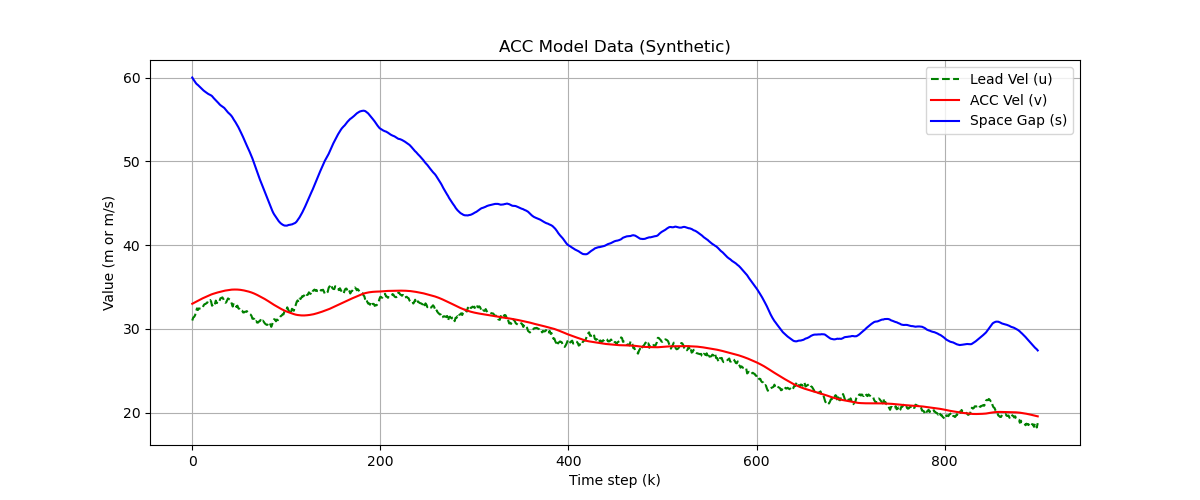
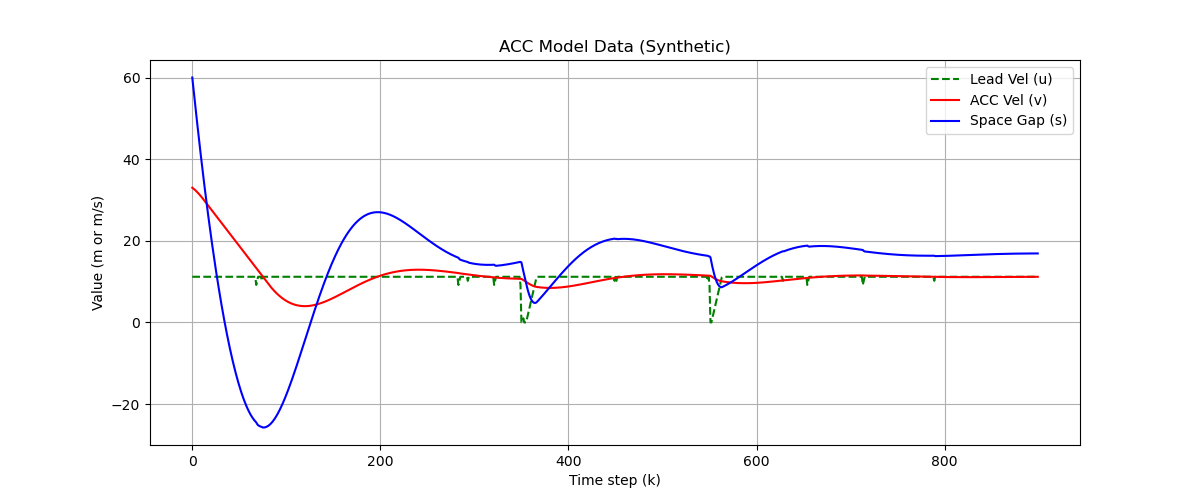
updates

diff --git a/src/rls.py b/src/rls.py
@@ -11,8 +11,9 @@ The model uses three parameters:
     - beta: Sensitivity to velocity difference
     - tau: Desired time headway
 
-The script performs the following steps:
+The script performs the following:
     1. Generate synthetic data using known parameters
+        1.5. Simulates scenario 1, 2, 3, and 4
     2. Implement RLS to estimate parameters from simulated data
     3. Compare estimated parameters with true values
     4. Generate plots to visualize convergence and model behavior
@@ -21,7 +22,6 @@ The script performs the following steps:
 # Needed dependencies:
 import numpy as np
 import matplotlib.pyplot as plt
-from functools import partial
 from functions import * 
 import os
 
@@ -31,13 +31,13 @@ os.makedirs(plot_dir, exist_ok=True)
 
 # Paramters from paper:
 time = 900    # Total simulation steps
-dt   = 0.1    # Time step in seconds
+dt = 0.1    # Time step in seconds
 
 # Seed for Reproducibility:
 np.random.seed(0)
 
 """
-ACC Model Parameters
+ACC Model Parameters:
 
 The ACC model is defined by three parameters:
     - alpha: Sensitivity to space gap (controls how strongly the vehicle responds to deviations in spacing)
@@ -94,24 +94,40 @@ Two different approaches are available:
    - Acceleration exiting the curve (340-360 time steps)
    - Random small variations elsewhere
 
+3. Suburban Driving Simulation:
+    - This scenario simulates a suburvan driving environment with two vehicles
+    - Lead vehicle u_t and v_t are generated with a stop zone
+    - This simulation will simulate how RLS reacts in a suburban environment with 
+      stop zones, random pedestrians, other vehicles, and different variations.
+
+4. Aggresive Driving Simulation:
+    - This scenario simulates a more aggressive driving behavior
+    - The lead vehicle u_t and v_t are generated with larger random variations, in this simulation 
+      u_t is driving aggressilvely and the following vehicle v_t is trying to catch up in the environment 
+      with the aggresiveness of u_t
+    - This simulation will simulate and test the robustness of RLS in a more aggressive driving environment
+
 The velocity is preallocated as an array with dimension (time).
 """ 
-u_t = np.zeros(time)
+
+u_t = np.zeros(time) # preallocate array for u_t
 u_t[0] = u0
 
-# Key to decide which scenario to use:
+# Key determines which scenario to use:
 # Change this key to switch between scenarios
 # 1 = Random Walk Model
 # 2 = Curve Simulation 
 # 3 = Suburban Driving Simulation
 # 4 - Aggresive Driving Simulation
-scenario_key = 1
+scenario_key = int(input("Enter scenario key (1-4): "))
 
 if scenario_key == 1:
+    # Random Walk Simulation:
     for i in range(1, 900):
         u_t[i] = u_t[i-1] + np.random.normal(loc=0, scale=0.2) # random increments
+
 elif scenario_key == 2:
-    # Simulated Curve:
+    # Road Curve Simulation:
     for i in range(1, 900):
         if 300 <= i < 340:
             u_t[i] = u_t[i-1] - 2.0  # sudden deceleration entering curve
@@ -121,12 +137,48 @@ elif scenario_key == 2:
             u_t[i] = u_t[i-1] + np.random.normal(0, 0.2)
         # Safety: keep velocity in physical range
         u_t[i] = np.clip(u_t[i], 0, 35)
+
 elif scenario_key == 3:
+    # Suburbs Driving Simulation:
+    vehicle_cruise  = 11.176      # target speed (m/s)
+    accel_step      = 1.0        # m/s gained per timestep when accelerating
+    decel_step      = -2.0       # m/s lost per timestep when braking
+    stop_duration   = 3          # timesteps to stay stopped at a stop sign
+
+    # generate event‐indices (avoid too close to start/end)
+    stop_signs    = np.random.choice(range(50, time-50), size=3, replace=False)
+    pedestrians   = np.random.choice(range(50, time-50), size=5, replace=False)
+    random_brakes = np.random.choice(range(50, time-50), size=7, replace=False)
+
+    stop_timer = 0
     for i in range(1, time):
-        if i % 100 < 20:
-            u_t[i] = max(u_t[i - 1] - 3.0, 0)  # Stop zone
+        u_prev = u_t[i-1]
+
+        if stop_timer > 0:
+            # currently stopped at a stop sign
+            u_t[i] = 0.0
+            stop_timer -= 1
+
+        elif i in stop_signs:
+            # hit a stop sign → brake then start stop_timer
+            u_t[i] = max(0.0, u_prev + decel_step)
+            stop_timer = stop_duration - 1
+
+        elif i in pedestrians:
+            # pedestrian crossing: one‐step hard brake
+            u_t[i] = max(0.0, u_prev + decel_step)
+
+        elif i in random_brakes:
+            # mild random brake (other car slows)
+            u_t[i] = max(0.0, u_prev + decel_step * 0.5)
+
         else:
-            u_t[i] = min(u_t[i - 1] + 0.5, 30) + np.random.normal(0, 0.2)
+            # normal acceleration up to cruise
+            u_t[i] = min(vehicle_cruise, u_prev + accel_step)
+
+    # ensure no “overshoot” of cruise speed
+    u_t = np.clip(u_t, 0.0, vehicle_cruise)
+
 
 elif scenario_key == 4: # Scenario 4 implicitly
     for i in range(1, time):
@@ -261,6 +313,10 @@ alpha_est_final, beta_est_final, tau_est_final = theta_history[-1]
 print("Final estimated alpha = %.3f (true=%.3f)" % (alpha_est_final, true_theta[0]))
 print("Final estimated beta  = %.3f (true=%.3f)"  % (beta_est_final, true_theta[1]))
 print("Final estimated tau   = %.3f (true=%.3f)"   % (tau_est_final, true_theta[2]))
+print("-------------------------")
+print(f"Alpha Error: {true_theta[0] - alpha_est_final:.3f}")
+print(f"Beta Error: {true_theta[1] - beta_est_final:.3f}")
+print(f"Tau Error: {true_theta[2] - tau_est_final:.3f}")
 
 
 # Plot - Alpha, Beta, Tau Convergence
